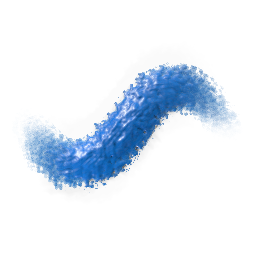
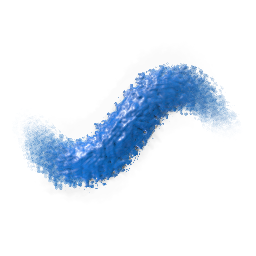
fix(wet 31/10): a faixa das ferramentas da água migra pela E4 (os 4 Blender voltam ao bit); Dabber, Dabber 4 e Fan Brush regerados (Bingham: a pasta já não escorre às franjas; JSON igual); render.rs 754 → 696 (PreLuz ao irmão)

diff --git a/crates/ph2d-wet-paint/src/render.rs b/crates/ph2d-wet-paint/src/render.rs
@@ -20,6 +20,9 @@ use crate::rng::hash2;
 use crate::sim::Params;
 use crate::tuning::Knob;
 
+mod pre_luz; // o PreLuz da linha do óleo (A.1) — filho por LOC
+pub use pre_luz::PreLuz;
+
 const INV_SQRT2: f64 = 0.707_106_781_186_547_6;
 const LIGHT_X: f64 = -INV_SQRT2; // light from top-left
 const LIGHT_Y: f64 = -INV_SQRT2;
@@ -652,67 +655,6 @@ fn pigment_row(
             }
             i += 1;
             o += 4;
-        }
-    }
-}
-
-/// O que a linha do óleo tem de UMA célula antes da luz (A.1, [`crate::oleo_vista`]): a cor pré-multiplicada da pilha,
-/// a cobertura antes (`pa_sem`) e depois da orla (`pa`), a do filme (`tinta`), o emboss da parte sem óleo (`pe`) e a
-/// fracção com óleo (`w`). A vista interpola-o e fecha cada pixel com [`PreLuz::fecha_oleo`], a conta da linha.
-#[derive(Clone, Copy, Debug, Default, PartialEq)]
-pub struct PreLuz {
-    pub pr: f64,
-    pub pg: f64,
-    pub pb: f64,
-    pub pa_sem: f64,
-    pub pa: f64,
-    pub tinta: f64,
-    pub pe: f64,
-    pub w: f64,
-}
-
-impl PreLuz {
-    /// O pixel RGBA da tinta com óleo de cor iluminada `[r, g, b]` (sRGB 0..255): a mistura com a parte sem óleo.
-    #[must_use]
-    pub fn fecha_oleo(&self, [r, g, b]: [f64; 3]) -> [u8; 4] {
-        let PreLuz {
-            pr,
-            pg,
-            pb,
-            pa_sem,
-            pa,
-            pe,
-            w: w_oleo,
-            ..
-        } = *self;
-        if w_oleo < 1.0 {
-            // A mistura com a tinta SEM óleo (a de baixo da fronteira, ou molhada com ela): a cor e a
-            // cobertura de cada uma pela fracção.
-            let (q, sem) = (1.0 - w_oleo, |c: f64| (c + pe) / pa_sem);
-            [
-                clamp_u8(w_oleo * r + q * sem(pr)),
-                clamp_u8(w_oleo * g + q * sem(pg)),
-                clamp_u8(w_oleo * b + q * sem(pb)),
-                clamp_u8((w_oleo * pa + q * pa_sem) * 255.0),
-            ]
-        } else {
-            [clamp_u8(r), clamp_u8(g), clamp_u8(b), clamp_u8(pa * 255.0)]
-        }
-    }
-
-    /// O pixel RGBA da tinta SEM óleo (o ramo `pa > 0` da linha), ou transparente.
-    #[must_use]
-    pub fn fecha_sem_oleo(&self) -> [u8; 4] {
-        let pa = self.pa_sem;
-        if pa > 0.0 {
-            [
-                clamp_u8(self.pr / pa),
-                clamp_u8(self.pg / pa),
-                clamp_u8(self.pb / pa),
-                clamp_u8(pa * 255.0),
-            ]
-        } else {
-            [0; 4]
         }
     }
 }

diff --git a/crates/ph2d-tool-painter/src/tool/paint/wetpaint_preset/preview.rs b/crates/ph2d-tool-painter/src/tool/paint/wetpaint_preset/preview.rs
@@ -459,9 +459,27 @@ fn fio_do_trilho(cena: &CenaDoPreview) -> Option<&'static str> {
 /// a ferramenta Paint), da altura do S (`2 · AMPLITUDE`, o S atravessa-lhe as duas orlas); depois a ferramenta volta
 /// e o S passa por cima. Os pincéis que pintam nunca chegam aqui (a miniatura deles é a de sempre, ao byte).
 /// O pigmento por dab da faixa no Wet — o da Acrylic Round de fábrica (a tinta cheia que as ferramentas movem).
-const PIGMENTO_DA_FAIXA: f64 = 500.0;
+pub(super) const PIGMENTO_DA_FAIXA: f64 = 500.0;
 /// …e a água dela (o volume Water da Acrylic Round: a tinta de corpo, não a aguada).
-const AGUA_DA_FAIXA: f64 = 0.05;
+pub(super) const AGUA_DA_FAIXA: f64 = 0.05;
+
+/// Os knobs da faixa: os do pincel SEM preset com o pigmento e a água da Acrylic Round, pela receita da E4
+/// (ADR-0197 §1.1) — a faixa pousa o MESMO pigmento e a MESMA água por dab que na lei velha (`PIGMENTO_DA_FAIXA` ×
+/// a Opacity, a água de `AGUA_DA_FAIXA`), como a Acrylic Round migrada ([`super::migra_a_receita`]).
+pub(super) fn knobs_da_faixa(opacidade: f64) -> WetKnobs {
+    use ph2d_wet_paint::tuning::Knob;
+    let mut k = WetKnobs::DEFAULT;
+    k.water = AGUA_DA_FAIXA;
+    let (pig, carga) = ph2d_wet_paint::painter::receita::migra_da_lei_velha(
+        PIGMENTO_DA_FAIXA,
+        k.get(Knob::WaterPerDab),
+        AGUA_DA_FAIXA,
+        opacidade,
+    );
+    k.set(Knob::PigmentPerDab, pig);
+    k.set(Knob::Intensity, carga);
+    k
+}
 
 fn faixa_da_ferramenta(t: &mut PainterTool, cena: &CenaDoPreview, x0: f32, x1: f32, cy: f32) {
     use super::super::wetpaint_settings::WetTool;
@@ -481,12 +499,7 @@ fn faixa_da_ferramenta(t: &mut PainterTool, cena: &CenaDoPreview, x0: f32, x1: f
     t.paint.brush.texture.kind = ph2d_painter_brush::TextureKind::None;
     (t.paint.brush.flow, t.paint.brush.accumulate) = (1.0, false);
     // No Wet: os knobs do pincel SEM preset (o Wet Round: as cerdas dele), com pigmento e água de tinta de corpo.
-    t.paint.wetpaint.knobs = WetKnobs::DEFAULT;
-    t.paint
-        .wetpaint
-        .knobs
-        .set(Knob::PigmentPerDab, PIGMENTO_DA_FAIXA);
-    t.paint.wetpaint.knobs.water = AGUA_DA_FAIXA;
+    t.paint.wetpaint.knobs = knobs_da_faixa(f64::from(t.paint.wetpaint.opacidade));
     t.paint.brush.blend = ph2d_painter_brush::BrushBlend::Mix;
     t.paint.wetpaint.tool = WetTool::Paint;
     t.paint.brush.radius_px = AMPLITUDE;

diff --git a/crates/ph2d-wet-paint/src/render/pre_luz.rs b/crates/ph2d-wet-paint/src/render/pre_luz.rs
@@ -1,0 +1,64 @@
+//! [`PreLuz`]: o que a linha do óleo tem de uma célula antes da luz (filho de [`super`] por LOC).
+
+use crate::jsmath::clamp_u8;
+
+/// O que a linha do óleo tem de UMA célula antes da luz (A.1, [`crate::oleo_vista`]): a cor pré-multiplicada da pilha,
+/// a cobertura antes (`pa_sem`) e depois da orla (`pa`), a do filme (`tinta`), o emboss da parte sem óleo (`pe`) e a
+/// fracção com óleo (`w`). A vista interpola-o e fecha cada pixel com [`PreLuz::fecha_oleo`], a conta da linha.
+#[derive(Clone, Copy, Debug, Default, PartialEq)]
+pub struct PreLuz {
+    pub pr: f64,
+    pub pg: f64,
+    pub pb: f64,
+    pub pa_sem: f64,
+    pub pa: f64,
+    pub tinta: f64,
+    pub pe: f64,
+    pub w: f64,
+}
+
+impl PreLuz {
+    /// O pixel RGBA da tinta com óleo de cor iluminada `[r, g, b]` (sRGB 0..255): a mistura com a parte sem óleo.
+    #[must_use]
+    pub fn fecha_oleo(&self, [r, g, b]: [f64; 3]) -> [u8; 4] {
+        let PreLuz {
+            pr,
+            pg,
+            pb,
+            pa_sem,
+            pa,
+            pe,
+            w: w_oleo,
+            ..
+        } = *self;
+        if w_oleo < 1.0 {
+            // A mistura com a tinta SEM óleo (a de baixo da fronteira, ou molhada com ela): a cor e a
+            // cobertura de cada uma pela fracção.
+            let (q, sem) = (1.0 - w_oleo, |c: f64| (c + pe) / pa_sem);
+            [
+                clamp_u8(w_oleo * r + q * sem(pr)),
+                clamp_u8(w_oleo * g + q * sem(pg)),
+                clamp_u8(w_oleo * b + q * sem(pb)),
+                clamp_u8((w_oleo * pa + q * pa_sem) * 255.0),
+            ]
+        } else {
+            [clamp_u8(r), clamp_u8(g), clamp_u8(b), clamp_u8(pa * 255.0)]
+        }
+    }
+
+    /// O pixel RGBA da tinta SEM óleo (o ramo `pa > 0` da linha), ou transparente.
+    #[must_use]
+    pub fn fecha_sem_oleo(&self) -> [u8; 4] {
+        let pa = self.pa_sem;
+        if pa > 0.0 {
+            [
+                clamp_u8(self.pr / pa),
+                clamp_u8(self.pg / pa),
+                clamp_u8(self.pb / pa),
+                clamp_u8(pa * 255.0),
+            ]
+        } else {
+            [0; 4]
+        }
+    }
+}

diff --git a/crates/ph2d-tool-painter/src/tool/paint/wetpaint_preset/receita_e4_tests.rs b/crates/ph2d-tool-painter/src/tool/paint/wetpaint_preset/receita_e4_tests.rs
@@ -134,3 +134,33 @@ fn o_wet_paint_sem_preset_pousa_o_mesmo_que_na_lei_velha() {
         d.get(Knob::Intensity)
     );
 }
+
+/// A FAIXA vermelha da miniatura das ferramentas da água (Blend, Smear, Water Brush, Blur…): os knobs dela eram uma
+/// receita da lei velha escrita à mão (PPD 500, Water 0,05) sobre a carga do Wet Round — sem a migração pousava
+/// `φ·h ≈ 427` em vez de `500` de pigmento (e a água `0,00075` em vez de `0,00087`): as quatro miniaturas Blender
+/// mudaram 24–33 mil px (FECHO_31_10 §3). Pousa o mesmo que na lei velha, a qualquer Opacity.
+#[test]
+fn a_faixa_das_ferramentas_da_agua_pousa_o_mesmo_que_na_lei_velha() {
+    use super::preview::{AGUA_DA_FAIXA, PIGMENTO_DA_FAIXA, knobs_da_faixa};
+    for op in [1.0, 0.6, 0.25] {
+        let k = knobs_da_faixa(op);
+        let r = receita(&Controlos {
+            pigmento: k.get(Knob::PigmentPerDab),
+            agua: k.water,
+            agua_por_dab: k.get(Knob::WaterPerDab),
+            volume: op,
+            carga: k.get(Knob::Intensity),
+            meio: 0.0,
+        });
+        let (pig, agua) = (
+            PIGMENTO_DA_FAIXA * op,
+            veiculo(AGUA_DA_FAIXA, k.get(Knob::WaterPerDab)),
+        );
+        assert!(
+            (r.pigmento() / pig - 1.0).abs() < TOL && (r.agua() / agua - 1.0).abs() < TOL,
+            "Opacity {op}: pigmento {:.4} (velha {pig:.4}) · água {:.6} (velha {agua:.6})",
+            r.pigmento(),
+            r.agua()
+        );
+    }
+}

diff --git a/docs/Painter/Arquitetura/FECHO_31_10.md b/docs/Painter/Arquitetura/FECHO_31_10.md
@@ -36,8 +36,8 @@ Achado: o balanço `Σh depois − Σh antes − Σh traço 2` dá −0,18 nesta
 |---|---|---|
 | `ph2d-wet-paint` `flow::flow_bit_tests::flow_step_bits_are_the_recorded_ones` | (a) E4: a receita recalcula pigmento/água de cada dab por φ·h (`doors.rs`/`deposit.rs`), igual à pressão de referência a < 1e-6 por dab (`receita_tests`); a cena não tem óleo (Bingham e piso fora). Rotas 1 e 2 dão o mesmo par. Diferença em 8-bit não medida (hash de estado f32) | **regravado** `GRAVADO` com o porquê |
 | `ph2d-tool-painter` `presets_de_fabrica::portoes::a_miniatura_de_fabrica_e_a_que_o_motor_pinta_hoje` — Fan Brush (Acrylic) | (a) 1 px | PNG: não regravado (ordem) |
-| idem — Blender Dots/Hard/Soft/Textured | **(b)** 24 337–33 382 px por miniatura: mudança real. Suspeita: a receita E4 dos pincéis de mistura (pigmento ~0 ⇒ φ/h diferentes da lei velha) ou a migração `migra_da_lei_velha`; não bissecado | por decidir (dono/linha) |
-| idem — Oil Dabber, Dabber 4 | **(b)** 11 841 / 8 649 px: mudança real; candidatos: Bingham (`ladeira_do_oleo::bingham`) ou o piso do espalhar (`trail/espalha.rs`), se o preset tem Real Oil; não bissecado | por decidir |
+| idem — Blender Dots/Hard/Soft/Textured | **(b) → REGRESSÃO da E4, curada** (§5): 28 886 / 24 337 / 25 129 / 33 382 px | curado: 0 px |
+| idem — Oil Dabber, Dabber 4 | **(b) → Bingham** (§5): 11 841 / 8 649 px, cura esperada | regerar (coordenador) |
 | `a_agua_nao_sobe_a_ladeira_do_oleo` | (c) vermelho anterior (HANDOFF_AUDITORIA_OLEO_SOBRE_OLEO §4) | nenhuma |
 | `mudar_o_painel_do_pincel_nao_muda_a_tinta_pousada` | (c) | nenhuma |
 | `o_traco_seguinte_usa_o_depth_o_gloss_e_a_caixa_novos` | (c) | nenhuma |
@@ -50,8 +50,49 @@ Filtros `aquarela watercolor guache gouache backrun edge_dark`: `ph2d-wet-paint`
 `ph2d-tool-painter` 227 verdes na lib (os 4 vermelhos são os da classe (c)), `tests/it` 8 verdes + a miniatura acima.
 Nenhum vermelho de aquarela/guache.
 
+## 5. Bissecção das miniaturas classe (b) (agente MINIATURAS)
+
+Teste temporário sobre `miniatura_do_preset`, interruptores em execução no mesmo processo: `PAPEL_BINGHAM = −1`
+(sem τ_y), `trail::sonda::SEM_PISO`, e para a E4 um interruptor provisório com a lei velha exacta de `pressure_dab`
+(força × `Intensity`, água pela pressão invertida, `PPD × Opacity`) e sem a migração. Controlo: Fan Brush 1 px → 0 e
+Wet Round 0 → 0 com a lei velha (a emulação é exacta). Px diferentes da miniatura de fábrica:
+
+| pincel | produto | sem Bingham | sem piso | lei velha E4 | causa |
+|---|---|---|---|---|---|
+| Blender Dots | 28 886 | 28 886 | 28 886 | **0** | E4 |
+| Blender Hard | 24 337 | 24 337 | 24 337 | **0** | E4 |
+| Blender Soft | 25 129 | 25 129 | 25 129 | **0** | E4 |
+| Blender Textured | 33 382 | 33 382 | 33 382 | **0** | E4 |
+| Oil Dabber | 11 841 | **0** | 11 841 | 11 841 | Bingham |
+| Oil Dabber 4 | 8 649 | **0** | 8 649 | 8 649 | Bingham |
+
+**Blender — regressão da migração, curada.** A miniatura de uma ferramenta da água pinta primeiro a FAIXA vermelha
+(`preview.rs::faixa_da_ferramenta`) com uma receita da lei velha escrita à mão: `WetKnobs::DEFAULT` + PPD 500 +
+Water 0,05, sobre a carga `Intensity 0,4505` do Wet Round (calibrada para PPD 78 · Water 1). Medido por dab: água
+`0,00087 → 0,00075` e pigmento `500 → φ·h ≈ 427` — a faixa saía mais clara, e o Blender mistura-a. Os presets
+Blender em si migram certo (PPD 78, Water 1, Opacity 1 ⇒ carga 0,4505, água igual à velha). Cura:
+`preview::knobs_da_faixa(opacidade)` migra a faixa por `migra_da_lei_velha` (como a Acrylic Round de fábrica).
+Teste novo `receita_e4_tests::a_faixa_das_ferramentas_da_agua_pousa_o_mesmo_que_na_lei_velha` (Opacity 1 / 0,6 /
+0,25, tolerância 1e-6; sem a cura pousaria 427 de 500). Depois: as quatro Blender **0 px**, Fan Brush 1 px (ruído
+f64 da receita, 0 com a lei velha).
+
+**Dabbers — Bingham, cura esperada.** Nem o piso nem a E4 os mexem; τ_y sozinho dá a diferença inteira. A crista e
+o S são os mesmos; muda a orla texturada (a pasta deixa de escorrer para as franjas) — máx. 168/195 por canal em
+píxeis isolados da orla. Fotos (fábrica · produto · |dif|×4):
+[`oil_dabber`](fotos/fecho_31_10/oil_dabber_fabrica_x_bingham_x_dif4.png) ·
+[`oil_dabber_4`](fotos/fecho_31_10/oil_dabber_4_fabrica_x_bingham_x_dif4.png). Ação: regerar estas duas (e o Fan
+Brush) — só o coordenador.
+
+## 6. `ph2d-wet-paint/src/render.rs` partido (move puro)
+
+| ficheiro | LOC | o que é |
+|---|---|---|
+| `render.rs` | 696 | o compositor, as linhas de pigmento (era 754, tecto 700) |
+| `render/pre_luz.rs` | 64 | `PreLuz` (`fecha_oleo`, `fecha_sem_oleo`), reexportado `pub use pre_luz::PreLuz` |
+
+`architecture_workspace_file_loc_cap` e `architecture_no_orphan_source_file` verdes (`ph2d-editor-core`).
+
 ## Por fazer
 
-- Bissecar os Blender e os Dabber (classe b) pelos interruptores em execução (`solver::PAPEL_BINGHAM`,
-  `trail::sonda::SEM_PISO`, `espalha::sobrepoe(Some(0.0))`) sobre `miniatura_do_preset`, e só então regerar a fábrica.
-- Portões de LOC/órfão sobre o corte do `passo.rs`.
+- Regerar as miniaturas Oil Dabber, Dabber 4 (Bingham) e Fan Brush (1 px) — coordenador; depois o portão
+  `a_miniatura_de_fabrica_e_a_que_o_motor_pinta_hoje` fica verde.
